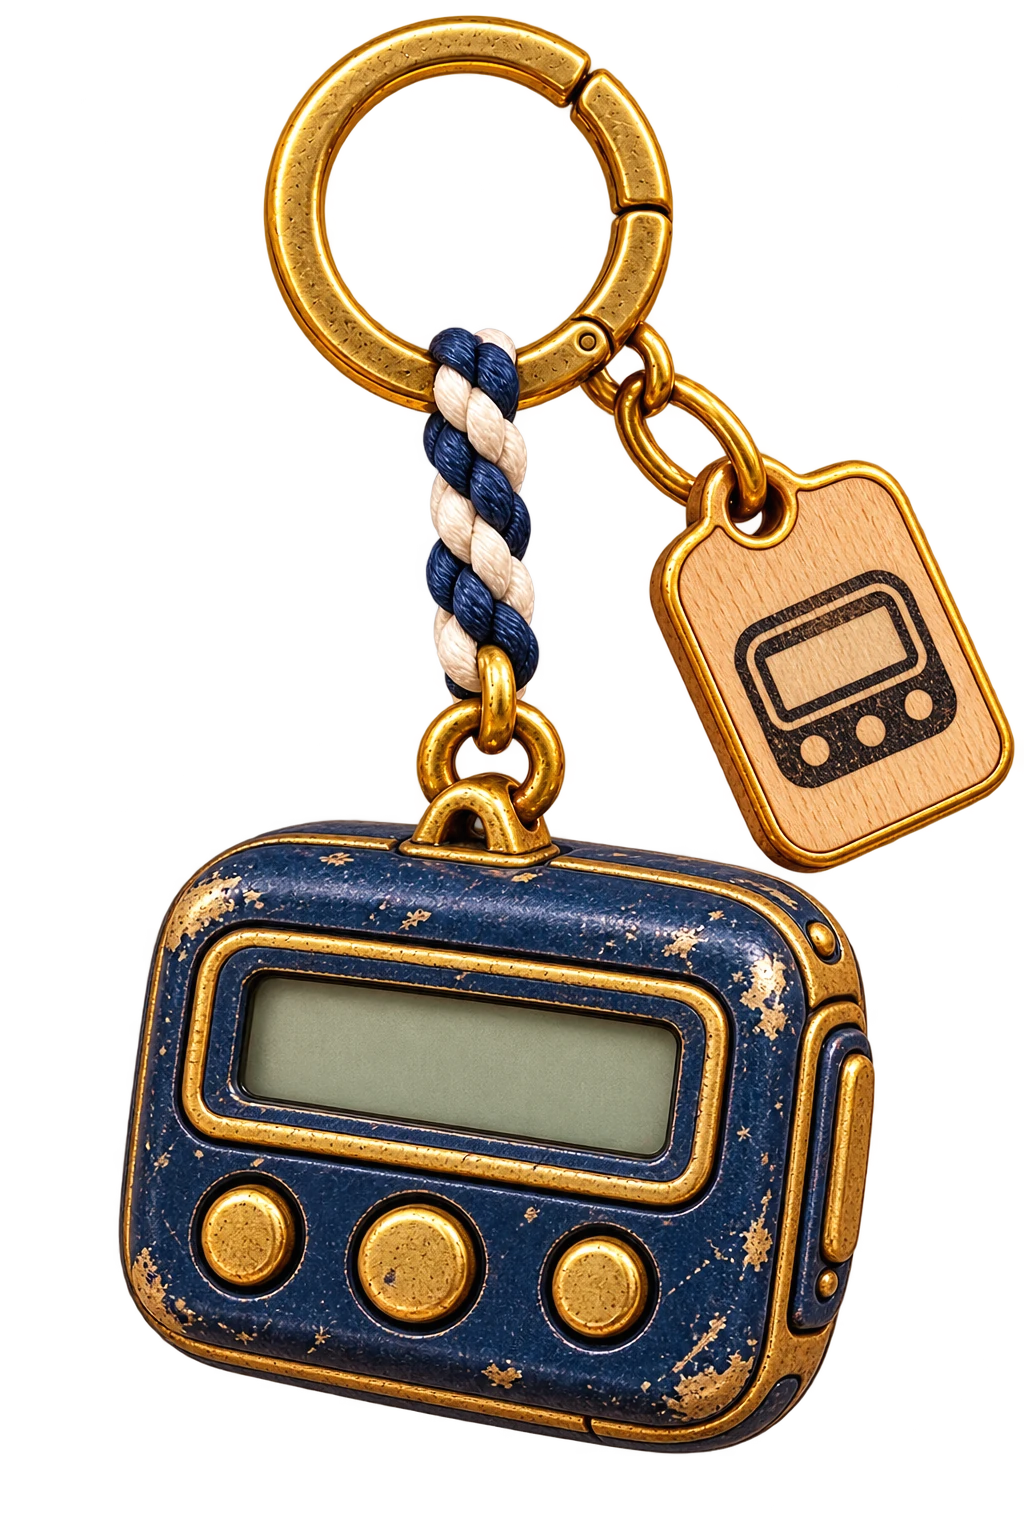
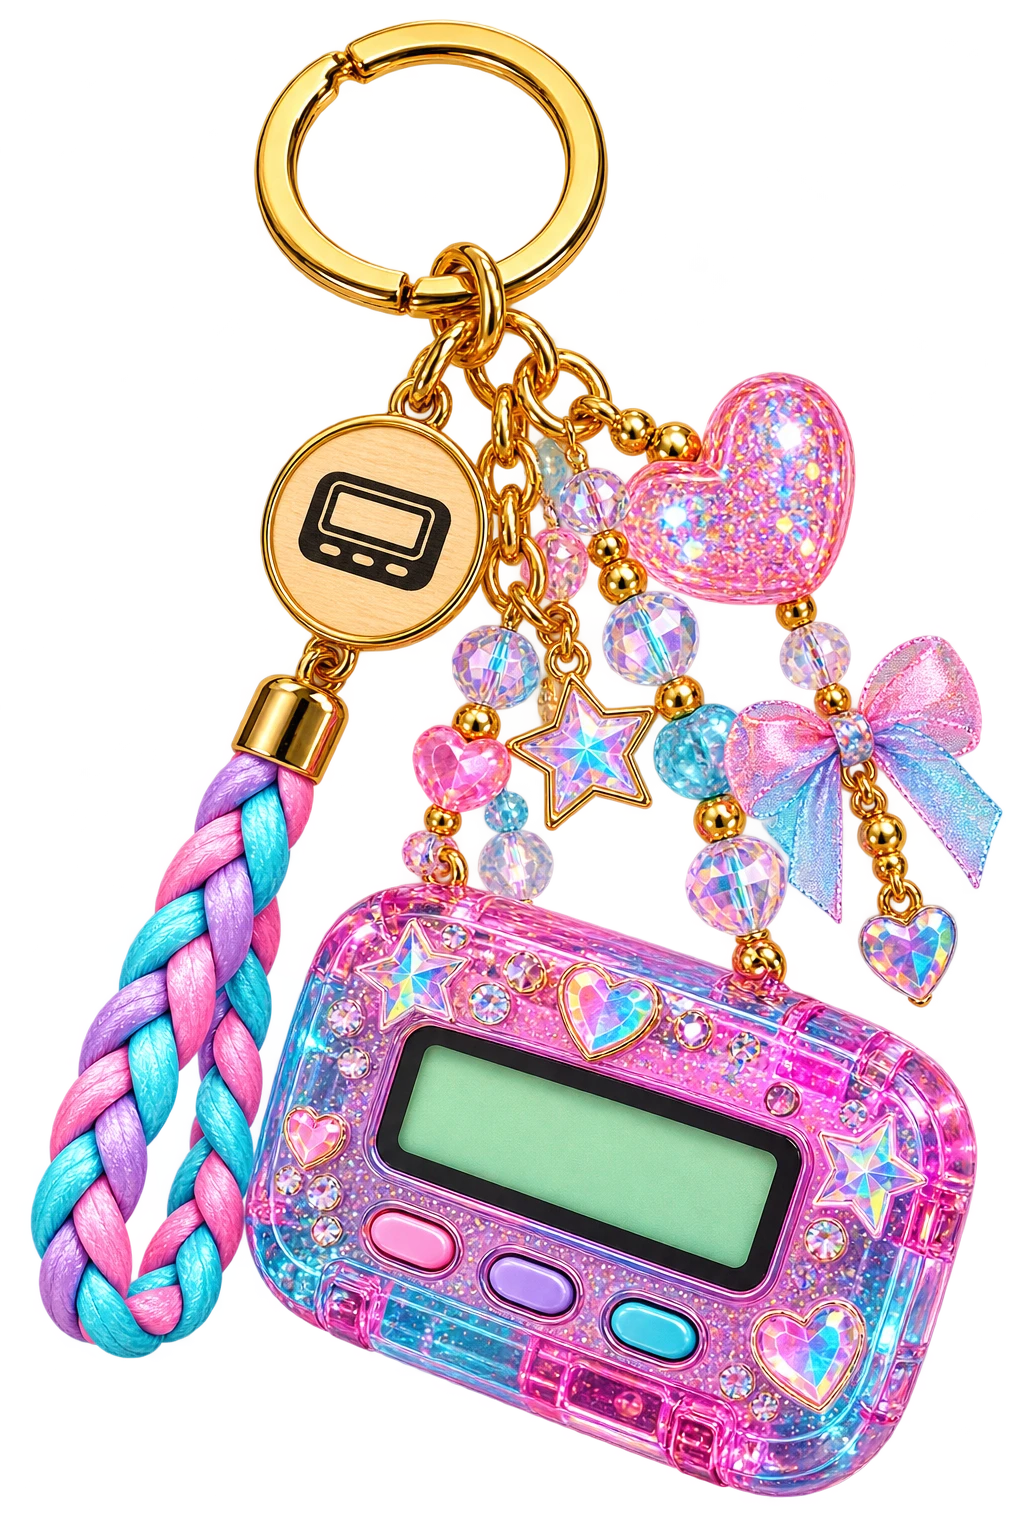
Complete Heisei event keychains and redesign Showa bike

diff --git a/assets/event-toki/MANIFEST.md b/assets/event-toki/MANIFEST.md
@@ -371,3 +371,15 @@ Map final WebP circular waypoint centroid audit (pixel coordinates, color flood 
 |---|---|---:|
 | keychains/keychain-heisei-loose-v1-transparent.webp | 1024×1536 | 359782 |
 | keychains/keychain-heisei-boots-v1-transparent.webp | 1024×1536 | 408446 |
+
+## Completed event miniature keychains
+
+| File | Dimensions | Bytes |
+|---|---|---:|
+| keychains/keychain-heisei-md-v1-transparent.webp | 1024×1536 | 574802 |
+| keychains/keychain-heisei-pager-v1-transparent.webp | 1024×1536 | 539532 |
+| keychains/keychain-heisei-cd-v1-transparent.webp | 1024×1536 | 511086 |
+| keychains/keychain-heisei-sticker-v1-transparent.webp | 1024×1536 | 566272 |
+| keychains/keychain-heisei-phs-v1-transparent.webp | 1024×1536 | 568506 |
+| keychains/keychain-heisei-digicam-v1-transparent.webp | 1024×1536 | 486014 |
+| keychains/keychain-showa-bike-v1-transparent.webp | 1024×1536 | 506262 |
